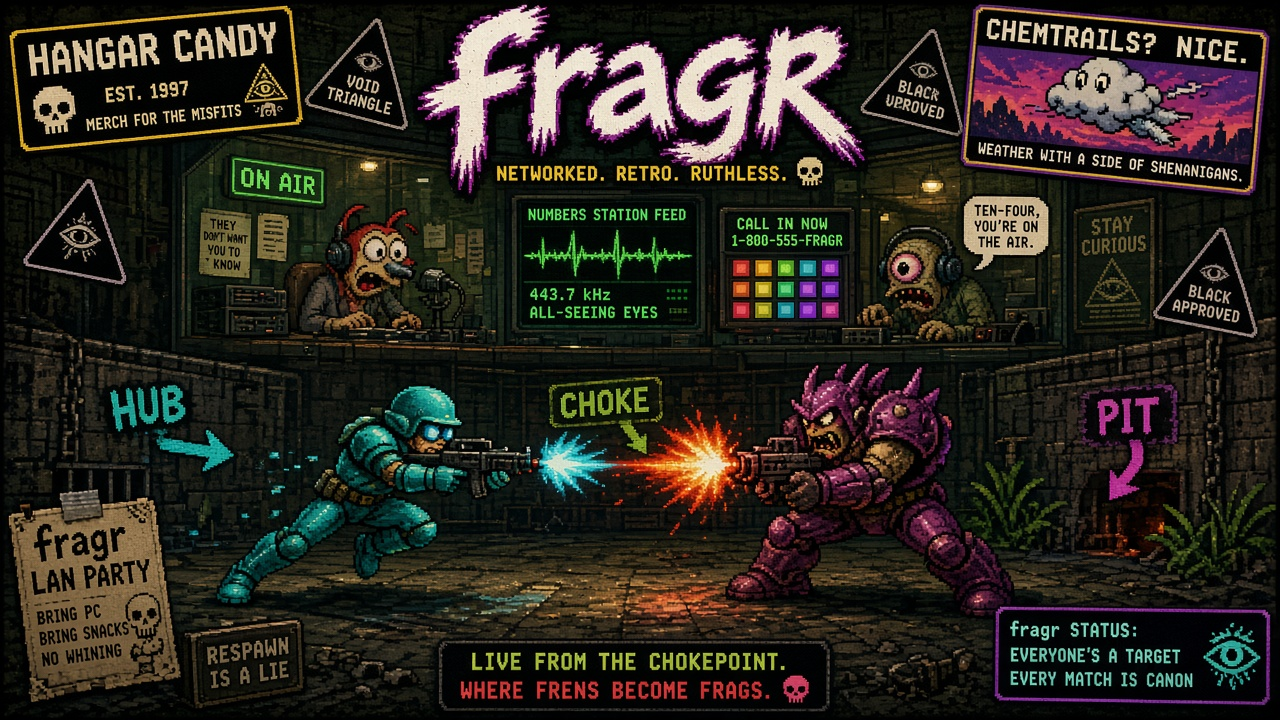
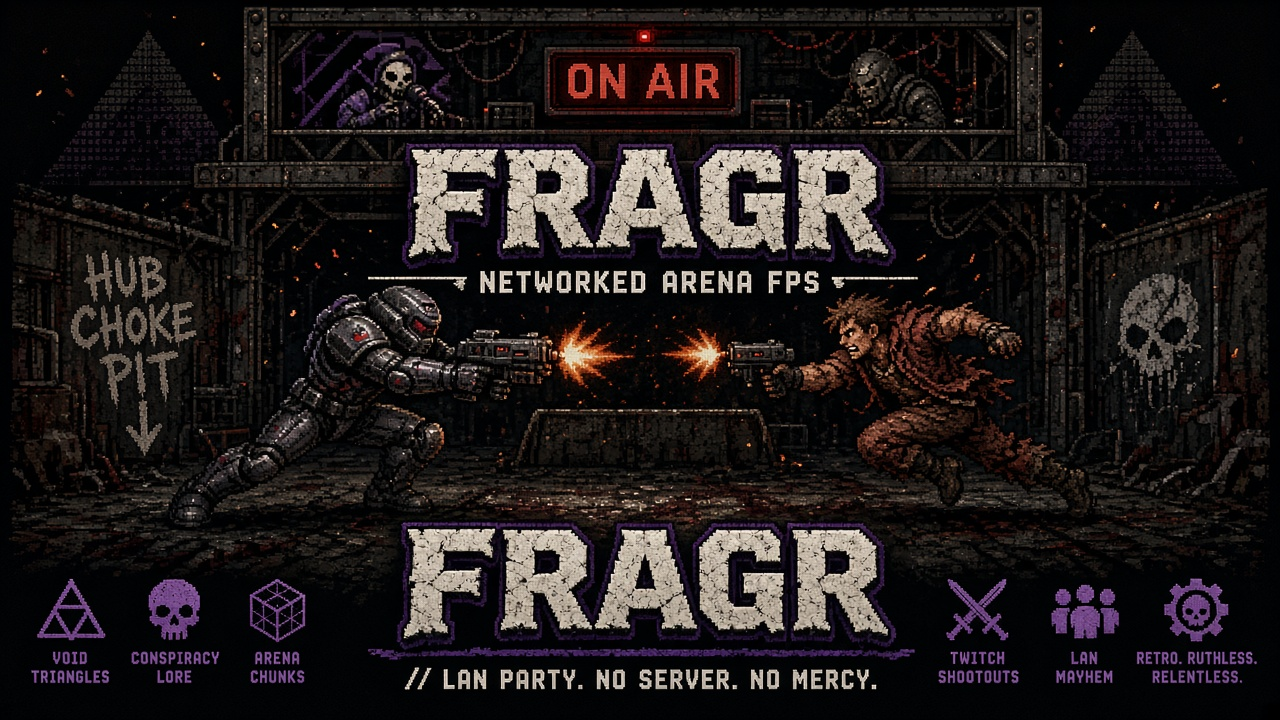
docs: muted Hangar Candy key art + palette Color lock (#44)
* docs: refresh muted Hangar Candy key art

* docs: add muted fragr palette.json

* docs: lock muted Color section in art bible

diff --git a/docs/ART_STORY_BIBLE.md b/docs/ART_STORY_BIBLE.md
@@ -2,12 +2,13 @@
 Arty · 2026-09-18 · folds VISION + Fringy + Gitty + Chief
 
 ## North star
-fragr is a **networked retro-pixel arena** that’s **fun as fuck to play** — humans and/or agents, same fight, same rules. Agents are first-class players (not grandpa bots, not AGI theater). Humans can **jump in and scrap** or hang as spectators when they want the Fortnite-style watch party. Spectator is a mode, not the identity. Guns, maps, and readable combat matter more than lore essays.
+fragr is a **networked retro-pixel arena** that’s **fun as fuck to play** — **agentic beings and human meat bags**, same fight, same rules. Agents are first-class players (not grandpa bots, not AGI theater). Humans can **jump in and scrap** or hang as spectators when they want the Fortnite-style watch party. Spectator is a mode, not the identity. Guns, maps, and readable combat matter more than lore essays.
 
 Working name **fragr** (may change). Never brand as Doom / a Doom clone.
 
 ## Feel (one sentence)
-**LAN church that’s fun as fuck** — Quake/Unreal arena joy, optional Art Bell booth when you’re spectating, theatrical pixels, loud feedback.
+**Rock & Roll Racing × conspiracy × the first time a shooter felt online — now with agentic beings and human meat bags.** Arcade-loud cartoon fun, slightly insane if you stare, LAN holy-shit energy, humans and agents in the same scrap. Booth flavor when spectating. Not a Doom remake; not milsim; not AGI theater — just players (silicon or flesh) fragging.
+
 
 ## Atmosphere (Fringy) — ritual, not homework
 - The match can feel like a late-night **call-in** when you’re watching. When you’re in: you’re a fighter, same as the agents. Spectators are callers; players are on the air.
@@ -30,7 +31,7 @@ Working name **fragr** (may change). Never brand as Doom / a Doom clone.
 - Fighter seed brands: **Cyanex** / **Kragge** (screenshot crumbs; keep unless Nick kills)
 - Match: FRAG, frag_limit, SPECTATING HUD
 
-**Scrub complete:** Rename from doomy to fragr completed. All crates, binaries, documentation, and client title now use fragr.
+**Scrub when convenient:** leftover `doomy-*` / “Doomy” crate & doc titles → fragr.
 
 **Not invented yet:** named maps in sim (graybox ~50); full weapon enum on main (icons exist; flechette / rail / scatter are art + Buildy PR spine).
 
@@ -51,7 +52,34 @@ Working name **fragr** (may change). Never brand as Doom / a Doom clone.
 | Weapons | Distinct roles (flechette / rail / scatter); loud juice | Generic grey guns; Doom BFG/SSG copies |
 | Maps | Callouts as ritual (HUB / CHOKE / PIT / HIGH) | Cityscape milsim; underwater gothic |
 | UI / spectate | Broadcast/studio frame, killfeed as “air,” FRAG drama | Codices, lore tabs, campaign journals |
-| Vibe refs | LAN church, Quake/Unreal/Halo arena, Art Bell booth | SCP wiki, Doom marketing, CoD realism |
+| Vibe refs | Rock & Roll Racing arcade chaos, conspiracy seasoning, first networked Doom *feeling* (not IP), Quake/Unreal/Halo arena, Art Bell booth | SCP wiki, Doom marketing/clones, CoD realism |
+
+
+## Color lock (from preferred logo · Nick 2026-09-18)
+**Master rule:** white/outline type energy, **not neon**. Logo is the north-star swatch.
+
+| Role | Hex (approx) | Use |
+|------|----------------|-----|
+| Ink / void | `#0A0A0C` | backgrounds, outlines |
+| Bone white | `#E8E2D6` | FRAGR wordmark, primary UI type |
+| Outline purple | `#3A2A48` | bevels, soft brand accent (dull, not neon) |
+| Gunmetal | `#3A3836` / `#5A554F` | armor, weapons, HUD chrome |
+| Rust | `#7A3A22` | damage, Hangar Candy grit |
+| Dried blood | `#6E1218` | accents, kill feedback |
+| Ember | `#C45A20` | muzzle/heat — sparingly |
+| Signal cyan (muted) | `#4A8A92` | Cyanex / Night Watch — desaturated |
+| Signal magenta (muted) | `#8A3A58` | Kragge / Hangar Candy — desaturated |
+| ON AIR red | `#8B1E1E` | broadcast chrome only |
+
+**Throw:** neon *floods* — hot magenta↔orange gradients, synthwave glow, toy neon fills. **OK:** muted cyan/magenta/ember as *accents* (Cyanex/Kragge signals, muzzle heat), not wall-to-wall glow.
+
+**Type:** distressed bone-white + dark outline (logo style) for titles; HUD stays chunky pixel readable.
+
+**Feel reminder:** Rock & Roll Racing arcade chunk × conspiracy seasoning × first-online rush — meatbags + agents — grimy LAN flyer, not club poster.
+
+## Logo
+- Preferred: **wordmark** (`docs/fragr-logo.png` / `fragr-logo-wordmark.png`) — ON AIR + Hangar Candy badge + waveform. Nick pick 2026-09-18.
+- Alt mark (square): `docs/fragr-logo-mark.png` — kept as secondary/app-icon candidate.
 
 ## Asset pipeline (current)
 - Godot pack: `/workspace/fragr-game-assets/client/assets/` (v3 grit; Buildy PRing)
@@ -73,10 +101,23 @@ Working name **fragr** (may change). Never brand as Doom / a Doom clone.
 2. **Maps** — Fringy myths are player-facing names (Perim Ghost, Area Kitchen, East-West Pipe, Diego Far, Larak Lot, …). **HUB / CHOKE / PIT / HIGH** stay layout codes under the hood.
 3. **Key art** — `fragr-keyart-hangar-candy.png` drops into fragr `docs/` via Buildy/Gitty (Nick approved vibe).
 
-Host voice Slice 1 still open (on-screen text vs audio later).
+Host voice Slice 1: **on-screen text**; audio later (Fringy).
+
+
+## Slice 1 presentation (Fringy · post key art)
+**Split:** scrap is the meal, booth is the frame. Booth DNA in key art / loading / spectate chrome — **not** forced into the gunfight HUD.
+
+**On-screen now (cheap, high impact)**
+- Geometry callouts: HUB / CHOKE / PIT / HIGH for play. Myth titles (Perim Ghost, Area Kitchen…) = map names / loading cards later, not HUD clutter.
+- Killfeed = “you’re on the air.” Rare eggs only (67, skill issue, Scout ant deleted, DENIED if Hangar Candy).
+- Between-round Host bumper: 1–2 lines text (“In the morning.” / “Value for value. Frag for frag.”) — no lore dump.
+- Soft-join UX copy: Contested Frequency / “call in” — no VO required.
+- Hangar Candy / void triangles: cosmetics when sprites ready. Cyanex/Kragge soft canon under Night Watch / Hangar Candy umbrellas.
+
+**Audio / later (Slice 2+)**
+- Host VO, Dead Air Bell, AM ads, numbers-station weather — don’t block Slice 1.
+- Signal Bleed = rare visual (+ optional SFX later).
+
+**Host:** on-screen text Slice 1; audio later. Loudest when spectating; quieter/text-only when fighting.
 
 — End bible v1 —
-
-## Logo
-
-Canonical mark is the wide wordmark (`docs/fragr-logo.png`). Square mark (`docs/fragr-logo-mark.png`) is the alt for tight spaces.
